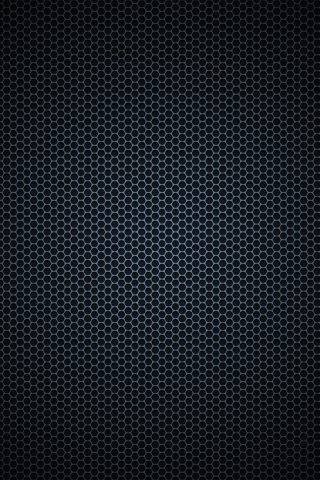
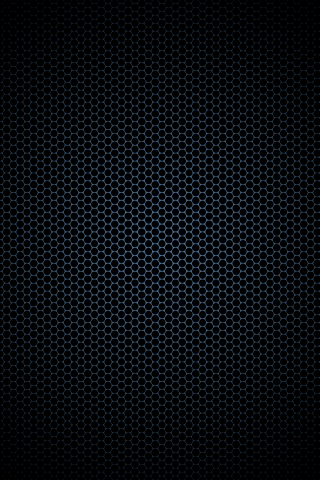
* Added new main menu background. * Added Default.png to help load visual. (It's suppose to fade but I think the Core Animation I added is interfering with the currentViewController stuff.) * Background mesh for log view is now a little darker.

diff --git a/iPhone/AppDelegate_iPhone.m b/iPhone/AppDelegate_iPhone.m
@@ -24,11 +24,25 @@
 
 - (BOOL)application:(UIApplication *)application didFinishLaunchingWithOptions:(NSDictionary *)launchOptions {    
     // Override point for customization after application launch.
-	[self updateAudioSystemVolumeSettings];
 	
+	// TODO: This fade doesn't happen
+	splashView = [[UIImageView alloc] initWithFrame:CGRectMake(0,20, 320, 460)];
+	splashView.image = [UIImage imageNamed:@"Default.png"];
+	[self.window addSubview:splashView];
+	[self.window bringSubviewToFront:splashView];
+	[UIView beginAnimations:nil context:nil];
+	[UIView setAnimationDuration:0.5];
+	[UIView setAnimationTransition:UIViewAnimationTransitionNone forView:self.window cache:YES];
+	[UIView setAnimationDelegate:self]; 
+	[UIView setAnimationDidStopSelector:@selector(startupAnimationDone:finished:context:)];
+	splashView.alpha = 0.0;
+	//splashView.frame = CGRectMake(-60, -60, 440, 600);
+	[UIView commitAnimations];
+	
+	[self updateAudioSystemVolumeSettings];
 	[self setCurrentViewController:[self mainMenuViewController] animated:NO];
 	
-	[self.window addSubview:self.currentViewController.view];	
+	//[self.window addSubview:self.currentViewController.view];	
     [self.window makeKeyAndVisible];
 	[[CDAudioManager sharedManager] setMode:kAMM_FxPlusMusicIfNoOtherAudio];
 	
@@ -37,7 +51,7 @@
     [launchOptions objectForKey:UIApplicationLaunchOptionsLocalNotificationKey];
     if (localNotif) {
         NSLog(@"Recieved Notification %@",localNotif);
-    }
+    }	
 	
 	return YES;
 }
@@ -154,6 +168,12 @@
 	
 	[[SimpleAudioEngine sharedEngine] setBackgroundMusicVolume:backgroundMusic];
 	[[SimpleAudioEngine sharedEngine] setEffectsVolume:soundEffects];
+}
+
+- (void)startupAnimationDone:(NSString *)animationID finished:(NSNumber *)finished context:(void *)context
+{
+	[splashView removeFromSuperview];
+	[splashView release];
 }
 
 #pragma mark -

diff --git a/Map/Controller/MainMenuViewController.m b/Map/Controller/MainMenuViewController.m
@@ -55,7 +55,7 @@
 
 - (void)viewWillAppear:(BOOL)animated
 {
-	[[UIApplication sharedApplication] setStatusBarHidden:YES withAnimation:UIStatusBarAnimationFade];
+	//[[UIApplication sharedApplication] setStatusBarHidden:NO withAnimation:UIStatusBarAnimationFade];
 	[super viewWillAppear:animated];
 }
 
@@ -83,6 +83,7 @@
 
 - (IBAction)optionsButtonPressed:(id)sender
 {
+	[[UIApplication sharedApplication] setStatusBarStyle:UIStatusBarStyleBlackOpaque animated:YES];
 	SettingsViewController *settingsVC = [[SettingsViewController alloc] init];
 	[settingsVC setDelegate:self];
 	[self presentModalViewController:settingsVC animated:YES];
@@ -91,6 +92,8 @@
 
 - (IBAction)logButtonPressed:(id)sender
 {
+	[[UIApplication sharedApplication] setStatusBarStyle:UIStatusBarStyleBlackOpaque animated:YES];
+	
 	//[delegate mainMenuViewControllerTreksButtonPressed:self];
 	// BUILD Trek Log
 	TrekListViewController *trekListVC = [[TrekListViewController alloc] init];
@@ -145,6 +148,7 @@
 
 - (IBAction)doneBrowsingLogBook:(id)sender
 {	
+	[[UIApplication sharedApplication] setStatusBarStyle:UIStatusBarStyleBlackTranslucent animated:YES];
 	[self dismissModalViewControllerAnimated:YES];
 }
 
@@ -158,6 +162,7 @@
 
 - (void)settingsViewControllerDidEnd:(SettingsViewController *)controller;
 {
+	[[UIApplication sharedApplication] setStatusBarStyle:UIStatusBarStyleBlackTranslucent animated:YES];
 	[self dismissModalViewControllerAnimated:YES];
 }
 

diff --git a/iPhone/AppDelegate_iPhone.h b/iPhone/AppDelegate_iPhone.h
@@ -23,6 +23,7 @@
 @class MapViewController;
 
 @interface AppDelegate_iPhone : AppDelegate_Shared <MainMenuViewControllerDelegate, MapViewControllerDelegate, StoryViewControllerDelegate, SettingsViewControllerDelegate> {
+	UIImageView *splashView;
 	
 }
 @property (nonatomic, retain) UINavigationController *developerToolboxNavigationController;
@@ -34,6 +35,7 @@
 
 - (void)setCurrentViewController:(UIViewController *)to animated:(BOOL)animate;
 - (void)updateAudioSystemVolumeSettings;
+- (void)startupAnimationDone:(NSString *)animationID finished:(NSNumber *)finished context:(void *)context;
 
 @end
 

diff --git a/Map/View/TreasureAnnotationView.h b/Map/View/TreasureAnnotationView.h
@@ -13,4 +13,6 @@
 
 }
 
+- (void)animateEncounterWithDelegate:(id)delegate;
+
 @end
